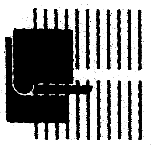
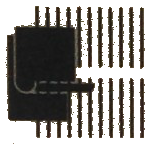
Tilføjet Talias kort, samt knap assets

diff --git a/Ragna-Rundt/View/MainPage.xaml b/Ragna-Rundt/View/MainPage.xaml
@@ -16,21 +16,91 @@
                 <Grid.Background>
                     <ImageBrush ImageSource="../Assets/Capture.PNG"></ImageBrush>
                 </Grid.Background>
-
-                <Button FontFamily="Segoe MDL2 Assets" Height="50" Width="50" FontSize="25" Content="&#xE700;" Background="Transparent" HorizontalAlignment="Left" Margin="0,0,100,0" VerticalAlignment="Top" Click="Button_Click" BorderThickness="0,0,0,0"></Button>
-
                 <RelativePanel>
 
-                    <SplitView x:Name="SplitviewMenu" DisplayMode="CompactInline" IsPaneOpen="False" CompactPaneLength="0" OpenPaneLength="150" Margin="0,0,0,0">
-                        <SplitView.Pane>
-                            <StackPanel>
+                    <Button FontFamily="Segoe MDL2 Assets" Height="150" Width="150" FontSize="55" Foreground="White" Content="&#xE700;" Background="Transparent" HorizontalAlignment="Left" Margin="0,0,0,0" VerticalAlignment="Top" Click="Button_Click" BorderThickness="0,0,0,0"></Button>
 
-                                <Button FontFamily="Segoe MDL2 Assets" Height="50" Width="50" FontSize="25" Content="&#xE700;" Background="Transparent" HorizontalAlignment="Left" Margin="0,0,100,0" VerticalAlignment="Center" Click="Button_Click" BorderThickness="0,0,0,0"></Button>
+
+
+                    <!--<StackPanel Name="StackPanelFlipview">-->
+
+                    <TextBlock Name="TextBlockRagnaRundt" RelativePanel.AlignHorizontalCenterWithPanel="True" Text="Ragna-Rundt" Width="500" TextAlignment="Center" FontWeight="Bold" FontSize="70" Foreground="White"></TextBlock>
+
+                    <!--<Slider Margin="0,50" Maximum="3" TickPlacement="BottomRight" TickFrequency="1" SnapsTo="Ticks" Value="0">
+
+                        </Slider>-->
+                    <FlipView RelativePanel.Below="TextBlockRagnaRundt" Name="FlipView" MaxWidth="300" MaxHeight="300" Margin="-4.4,50,78.4,440.2" RelativePanel.AlignHorizontalCenterWithPanel="true" SelectionChanged="FlipView_SelectionChanged" >
+                        <StackPanel Name="StackPanelFlipView" HorizontalAlignment="Center" VerticalAlignment="Center">
+                            <Image RelativePanel.AlignBottomWith="BorderInfoBox" MaxHeight="500" MaxWidth="600" Source="../Assets/grundplan, ragnarock.jpg" VerticalAlignment="Center" Margin="0,0,0,0"/>
+                            <Border Name="BorderInfoBox" Background="Purple" Height="60" Width="auto" HorizontalAlignment="Center" VerticalAlignment="Bottom">
+                                <TextBlock Text="Brugbar info" TextAlignment="Center" Margin="0,0,0,0" Height="auto" Width="300"/>
+                            </Border>
+                        </StackPanel>
+                        <StackPanel>
+                            <Image Height="auto" Source="../Assets/Capture.PNG" VerticalAlignment="Top"></Image>
+                            <Border Background="Red" Height="60" Width="300" HorizontalAlignment="Left" VerticalAlignment="Bottom">
+                                <TextBlock Text="Brugbar info" HorizontalAlignment="Center">
+                                </TextBlock>
+                            </Border>
+                        </StackPanel>
+                    </FlipView>
+
+                    <Canvas Name="Canvas_Kort" RelativePanel.AlignBottomWithPanel="True" Width="1000" Height="Auto" MaxHeight="1200" MaxWidth="1000" Margin="40,83.8,0,-84" RelativePanel.Below="SplitviewMenu" HorizontalAlignment="Stretch" VerticalAlignment="Stretch">
+                        <Canvas.Background>
+                            <ImageBrush ImageSource="../Assets/RagnarockKort.jpg"></ImageBrush>
+                        </Canvas.Background>
+                        <Button Name="Blikfang" Background="Transparent" HorizontalAlignment="Left" Canvas.Left="348" Margin="0,0,0,0" VerticalAlignment="Center" Canvas.Top="37" Height="138" Width="150">
+                            <Image Source="../Assets/KnapBlikfanggul.png" HorizontalAlignment="Stretch" Margin="-0.4,0.2,3,15.8" VerticalAlignment="Stretch"></Image>
+                        </Button>
+                        <Button Name="Hjerte1" Background="Transparent" HorizontalAlignment="Left" Canvas.Left="804" Canvas.Top="838" VerticalAlignment="Top" Height="150" Width="106">
+                            <Image Source="../Assets/KnapHjerteGrøn.png"></Image>
+                        </Button>
+                        <Button Name="Hjerte2" Background="Transparent" HorizontalAlignment="Left" Canvas.Left="798" Canvas.Top="226" VerticalAlignment="Top" Height="150" Width="106">
+                            <Image Source="../Assets/KnapHjerteGrøn.png"></Image>
+                        </Button>
+                        <Button Name="Telefon" Background="Transparent" HorizontalAlignment="Left" Canvas.Left="510" Canvas.Top="688" VerticalAlignment="Top" Height="113" Width="164" Margin="0,0,0,0">
+                            <Image Source="../Assets/KnapTelefongul.png"></Image>
+                        </Button>
+                        <Button Name="Kassettebaand" Background="Transparent" HorizontalAlignment="Center" Canvas.Left="223" Canvas.Top="651" VerticalAlignment="Top" Height="121" Width="125" Margin="0,0,0,0">
+                            <Image Source="../Assets/KnapKassetteBaandgul.png"></Image>
+                        </Button>
+                        <Button Name="Mikrofon" Background="Transparent" HorizontalAlignment="Left" Canvas.Left="85" Canvas.Top="828" VerticalAlignment="Top" Height="135" Width="88">
+                            <Image Source="../Assets/KnapTrommegul.png"></Image>
+                        </Button>
+                        <Button Name="Pladespiller" Background="Transparent" HorizontalAlignment="Left" Canvas.Left="348" Canvas.Top="838" VerticalAlignment="Top" Height="149" Width="138" Margin="0,0,0,0">
+                            <Image Source="../Assets/KnapPladespillergul.png"></Image>
+                        </Button>
+                        <Button Name="RagnarockBygning" Background="Transparent" HorizontalAlignment="Left" Canvas.Left="517" Canvas.Top="1050" VerticalAlignment="Top" Height="102" Width="168">
+                            <Image Source="../Assets/KnapRoedeTraadgul.png"></Image>
+                        </Button>
+                        <Button Name="Lydvaeg" Background="Transparent" HorizontalAlignment="Left" Canvas.Left="510" Canvas.Top="238" VerticalAlignment="Top" Height="137" Width="101" Margin="0,0,0,0">
+                            <Image Source="../Assets/KnapMusikVaaggul.png"></Image>
+                        </Button>
+                        <Button Name="Verden" Background="Transparent" HorizontalAlignment="Left" Canvas.Left="23" Canvas.Top="263" VerticalAlignment="Top" Height="129" Width="137">
+                            <Image Source="../Assets/KnapVerdengul.png"></Image>
+                        </Button>
+                        <Button Name="Lysshow" Background="Transparent" HorizontalAlignment="Left" Canvas.Left="247" Canvas.Top="288" VerticalAlignment="Center" Height="149" Width="137" Margin="0,0,0,0" RenderTransformOrigin="0.5,0.5">
+                            <Button.RenderTransform>
+                                <CompositeTransform Rotation="0"/>
+                            </Button.RenderTransform>
+                            <Image Source="../Assets/Knaplysshowgul.png"></Image>
+                        </Button>
+                        <Button Name="Cirkler" Background="Transparent" HorizontalAlignment="Left" Canvas.Left="285" Canvas.Top="175" VerticalAlignment="Top" Height="113" Width="125">
+                            <Image Source="../Assets/KnapSkaelvgul.png"></Image>
+                        </Button>
+                    </Canvas>
+
+
+                    <SplitView  x:Name="SplitviewMenu" DisplayMode="CompactInline" IsPaneOpen="False" CompactPaneLength="0" OpenPaneLength="350" Margin="0,0,0,0">
+                        <SplitView.Pane>
+                            <StackPanel HorizontalAlignment="Stretch" Margin="0,0,0,0" VerticalAlignment="Stretch">
+
+                                <Button FontFamily="Segoe MDL2 Assets" Height="150" Width="150" FontSize="55" Content="&#xE700;" Background="Transparent" HorizontalAlignment="Left" Margin="0,0,0,0" VerticalAlignment="Center" Click="Button_Click" BorderThickness="0,0,0,0"/>
 
                                 <Button Background="Gray" x:Name="Kort_Button" Click="Kort_Button_Click" BorderThickness="0,0,0,0" Width="150">
-                                    <StackPanel Orientation="Horizontal" HorizontalAlignment="Left" Margin="-25.2,0,0,0" VerticalAlignment="Stretch" Width="105">
-                                        <TextBlock Margin="0,0,0,0" IsTextSelectionEnabled="False" FontFamily="Segoe MDL2 Assets" Height="50" Width="50" FontSize="25" Text="&#xE909;" HorizontalAlignment="Center" VerticalAlignment="Stretch"/>
-                                        <TextBlock IsTextSelectionEnabled="False" Text="Kort" FontSize="16" HorizontalAlignment="Left"/>
+                                    <StackPanel Orientation="Horizontal" HorizontalAlignment="Left" Margin="0,0,0,0" VerticalAlignment="Stretch" Width="250">
+                                        <TextBlock Margin="0,0,0,0" IsTextSelectionEnabled="False" FontFamily="Segoe MDL2 Assets" Height="150" Width="150" FontSize="55" Text="&#xE909;" HorizontalAlignment="Center"/>
+                                        <TextBlock IsTextSelectionEnabled="False" Text="Kort" FontSize="26" HorizontalAlignment="Left"/>
                                     </StackPanel>
                                 </Button>
 
@@ -43,50 +113,22 @@
 
                                 <Button Background="Transparent"  x:Name="Rundvisnings_Button" Click="Rundvisnings_Button_OnClick" BorderThickness="0,0,0,0" Width="150">
                                     <StackPanel Orientation="Horizontal" HorizontalAlignment="Left" Margin="-5.2,0,0,0" VerticalAlignment="Stretch" Width="125">
-                                        <TextBlock IsTextSelectionEnabled="False" FontFamily="Segoe MDL2 Assets" Height="50" Width="50" FontSize="25" Text="&#xE8A;" HorizontalAlignment="Center" VerticalAlignment="Stretch"/>
-                                        <TextBlock IsTextSelectionEnabled="False" Text="Rundvisning" FontSize="16" HorizontalAlignment="Left"></TextBlock>
+                                        <TextBlock IsTextSelectionEnabled="False" FontFamily="Segoe MDL2 Assets" Height="50" Width="50" FontSize="25" Text="ຊ" HorizontalAlignment="Center" VerticalAlignment="Stretch"/>
+                                        <TextBlock IsTextSelectionEnabled="False" Text="Rundvisning" FontSize="16" HorizontalAlignment="Left"/>
                                     </StackPanel>
                                 </Button>
 
                                 <Button Background="Transparent"  x:Name="Udstilling_Button" Click="Udstilling_Button_Click" BorderThickness="0,0,0,0" Width="150">
                                     <StackPanel Orientation="Horizontal" HorizontalAlignment="Left" Margin="-5.2,0,0,0" VerticalAlignment="Stretch" Width="125">
                                         <TextBlock IsTextSelectionEnabled="False" FontFamily="Segoe MDL2 Assets" Height="50" Width="50" FontSize="25" Text="&#xE8A2;" HorizontalAlignment="Center" VerticalAlignment="Stretch"/>
-                                        <TextBlock IsTextSelectionEnabled="False" Text="Udstilling" FontSize="16" HorizontalAlignment="Left"></TextBlock>
+                                        <TextBlock IsTextSelectionEnabled="False" Text="Udstilling" FontSize="16" HorizontalAlignment="Left"/>
                                     </StackPanel>
                                 </Button>
 
                             </StackPanel>
                         </SplitView.Pane>
                     </SplitView>
-
-
-
-                    <StackPanel >
-
-                        <TextBlock Text="Ragna-Rundt" Width="500" TextAlignment="Center" FontWeight="Bold" FontSize="30"></TextBlock>
-
-                        <!--<Slider Margin="0,50" Maximum="3" TickPlacement="BottomRight" TickFrequency="1" SnapsTo="Ticks" Value="0">
-
-                        </Slider>-->
-                        <FlipView MaxWidth="300"  Margin="0,40,0,0" Height="180" >
-                            <StackPanel>
-                                <Image Height="120" Source="../Assets/grundplan, ragnarock.jpg" VerticalAlignment="Top"></Image>
-                                <Border Background="Purple" Height="60" Width="auto" HorizontalAlignment="Center" VerticalAlignment="Bottom">
-                                    <TextBlock Text="Brugbar info" HorizontalAlignment="Center">
-                                    </TextBlock>
-                                </Border>
-                            </StackPanel>
-                            <StackPanel>
-                                <Image Height="120" Source="../Assets/Capture.PNG" VerticalAlignment="Top"></Image>
-                                <Border Background="Red" Height="60" Width="300" HorizontalAlignment="Left" VerticalAlignment="Bottom">
-                                    <TextBlock Text="Brugbar info" HorizontalAlignment="Center">
-                                    </TextBlock>
-                                </Border>
-                            </StackPanel>
-                        </FlipView>
-
-                        <Image Source="../Assets/grundplan, ragnarock.jpg" Margin="0,110,0,60"></Image>
-                    </StackPanel>
+                    <!--</StackPanel>-->
                 </RelativePanel>
             </Grid>
         </Viewbox>

diff --git a/Ragna-Rundt/View/MainPage.xaml.cs b/Ragna-Rundt/View/MainPage.xaml.cs
@@ -61,6 +61,12 @@ namespace Ragna_Rundt
         {
             this.Frame.Navigate(typeof(RundvisningsSide));
         }
+
+        private void FlipView_SelectionChanged(object sender, SelectionChangedEventArgs e)
+        {
+
+        }
+
         //private void NavView_Navigate(NavigationViewItem item)
         //{
         //    switch (item.Tag)
